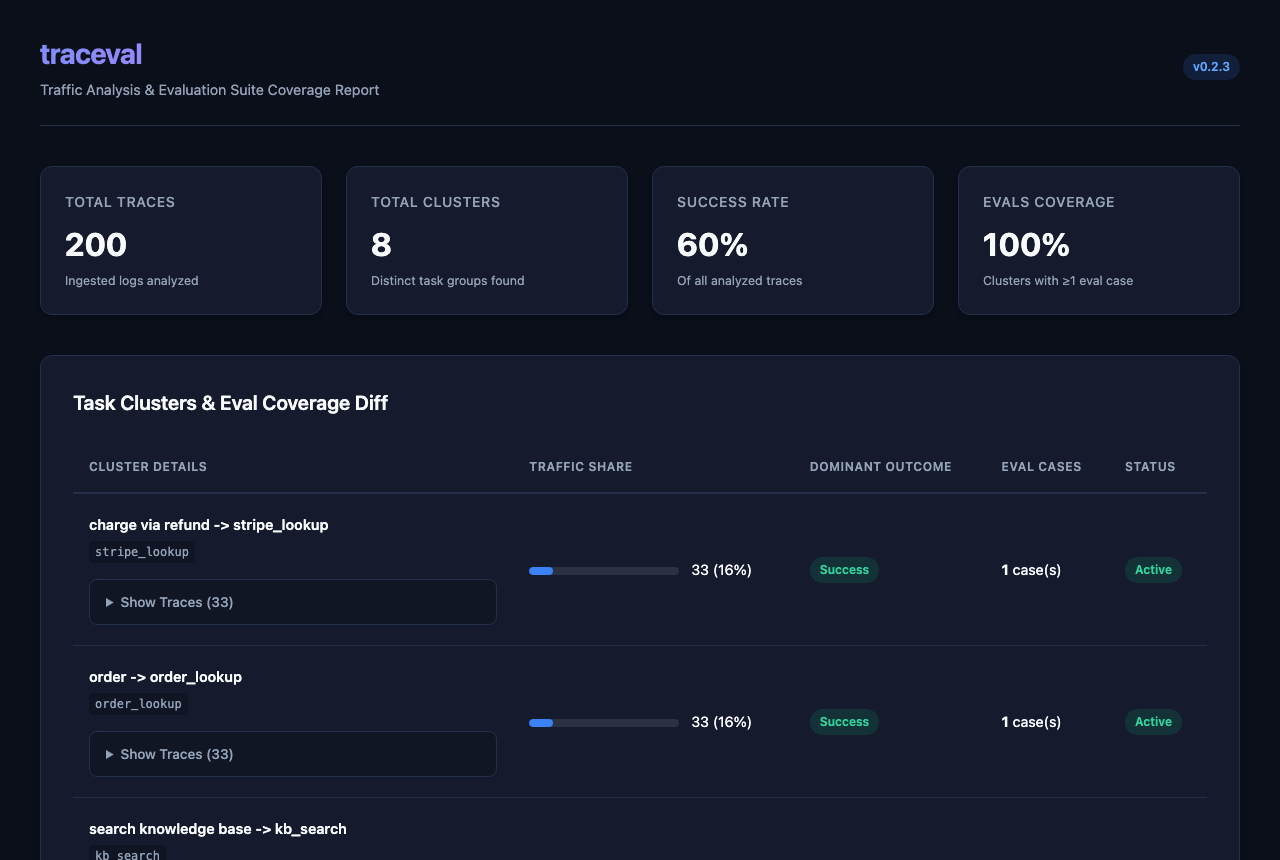
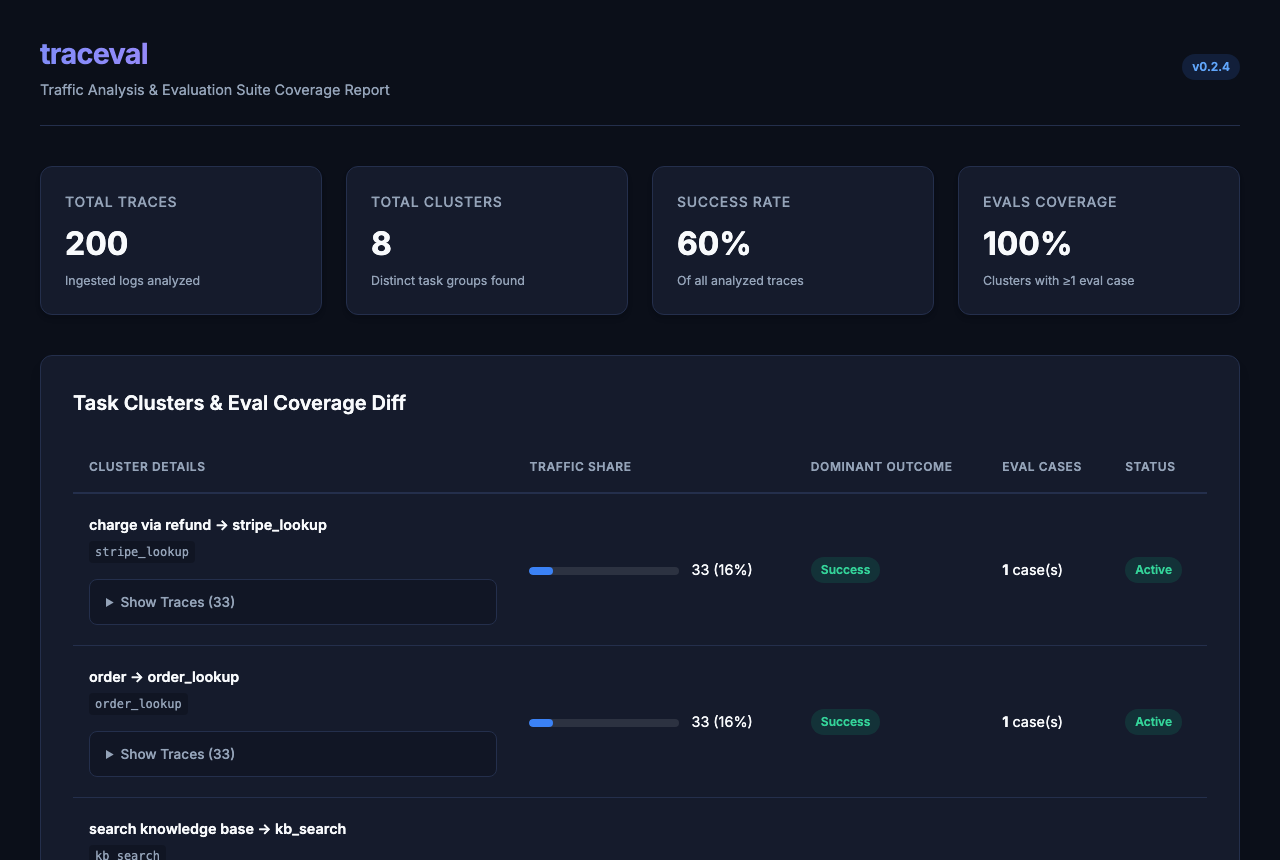
release: v0.2.4

diff --git a/src/traceval/__init__.py b/src/traceval/__init__.py
@@ -1,1 +1,1 @@
-__version__ = "0.2.3"
+__version__ = "0.2.4"

diff --git a/CHANGELOG.md b/CHANGELOG.md
@@ -5,6 +5,16 @@ All notable changes to this project will be documented in this file.
 The format is based on [Keep a Changelog](https://keepachangelog.com/en/1.0.0/),
 and this project adheres to [Semantic Versioning](https://semver.org/spec/v2.0.0.html).
 
+## [0.2.4] - 2026-07-02
+
+### Changed
+- **PyPI page**: real package metadata (selling one-line summary, project URLs, author, keywords, classifiers including `Typing :: Typed` backed by a `py.typed` marker in the wheel) and a README whose image and doc links are absolute URLs, so the PyPI page renders correctly (verified with readme-renderer).
+- **Unified CLI color scheme**: one shared console with a semantic palette (green passed, red failed, yellow errored/warnings, cyan paths, magenta clusters, bold counts and headings, bold-red errors on stderr) across ingest/analyze/generate/demo/serve/calibrate and the generated run summary. Styling auto-disables when the stream is not a TTY and honors `NO_COLOR`; `--json` output bypasses the console entirely and is byte-identical (pinned by tests).
+- Ingest shows a progress bar when stdout is a TTY and `--json` is not set; never in pipes or CI.
+
+### Added
+- `docs/demo.tape` (vhs script) and `make demo-gif` to record the demo GIF for the README; the embed ships commented-out until the GIF is generated and committed. The three doc papercuts from the last audit (LangSmith flag note, FastAPI example prerequisites, pip fallback in CONTRIBUTING) were verified already shipped on main after the v0.2.3 tag.
+
 ## [0.2.3] - 2026-07-02
 
 ### Fixed

diff --git a/README.md b/README.md
@@ -181,7 +181,7 @@ jobs:
     runs-on: ubuntu-latest
     steps:
       - uses: actions/checkout@v4
-      - uses: theramkm/traceval@v0.2.3
+      - uses: theramkm/traceval@v0.2.4
         with:
           evals-dir: evals/
           target: myapp.agent:invoke_agent   # or an HTTP URL